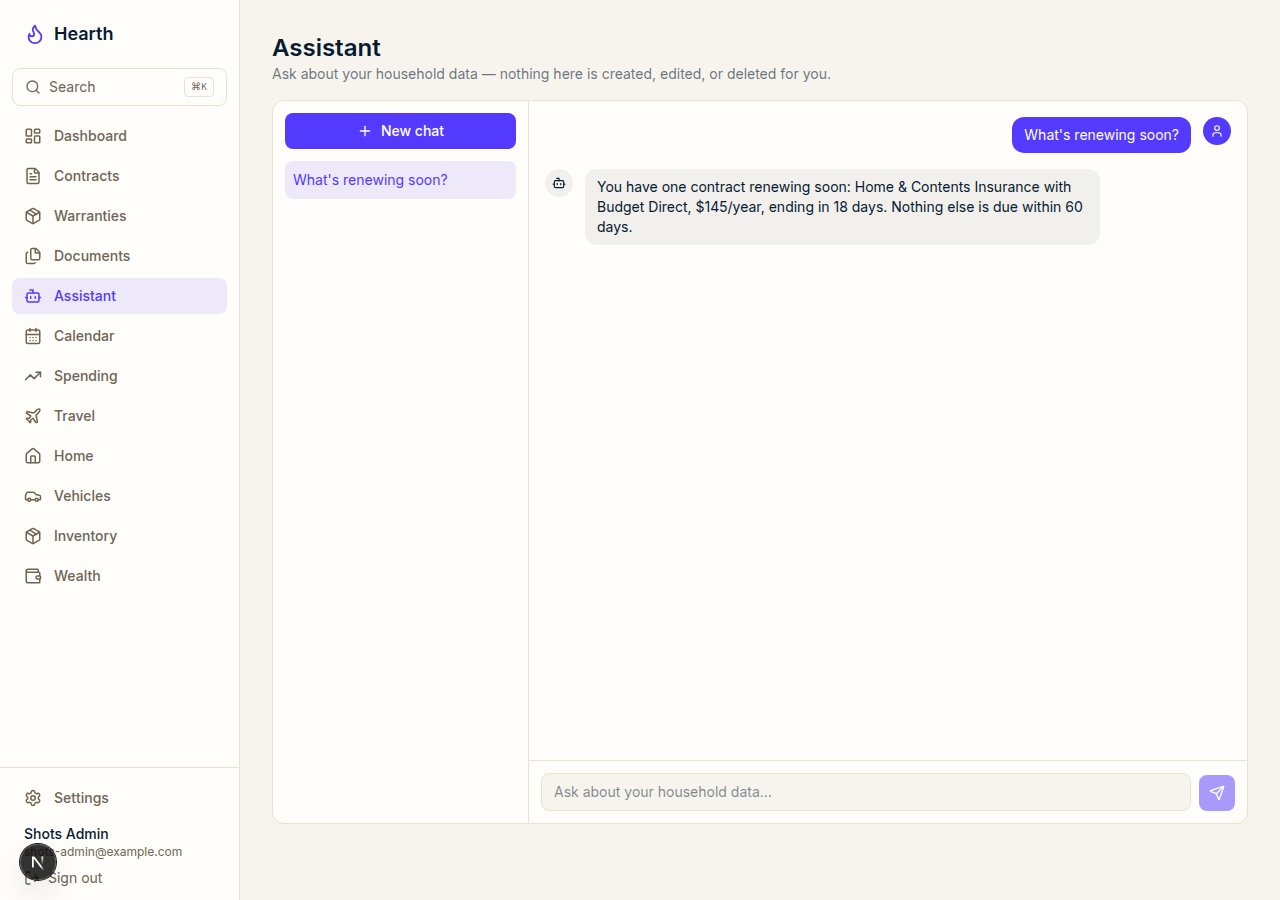
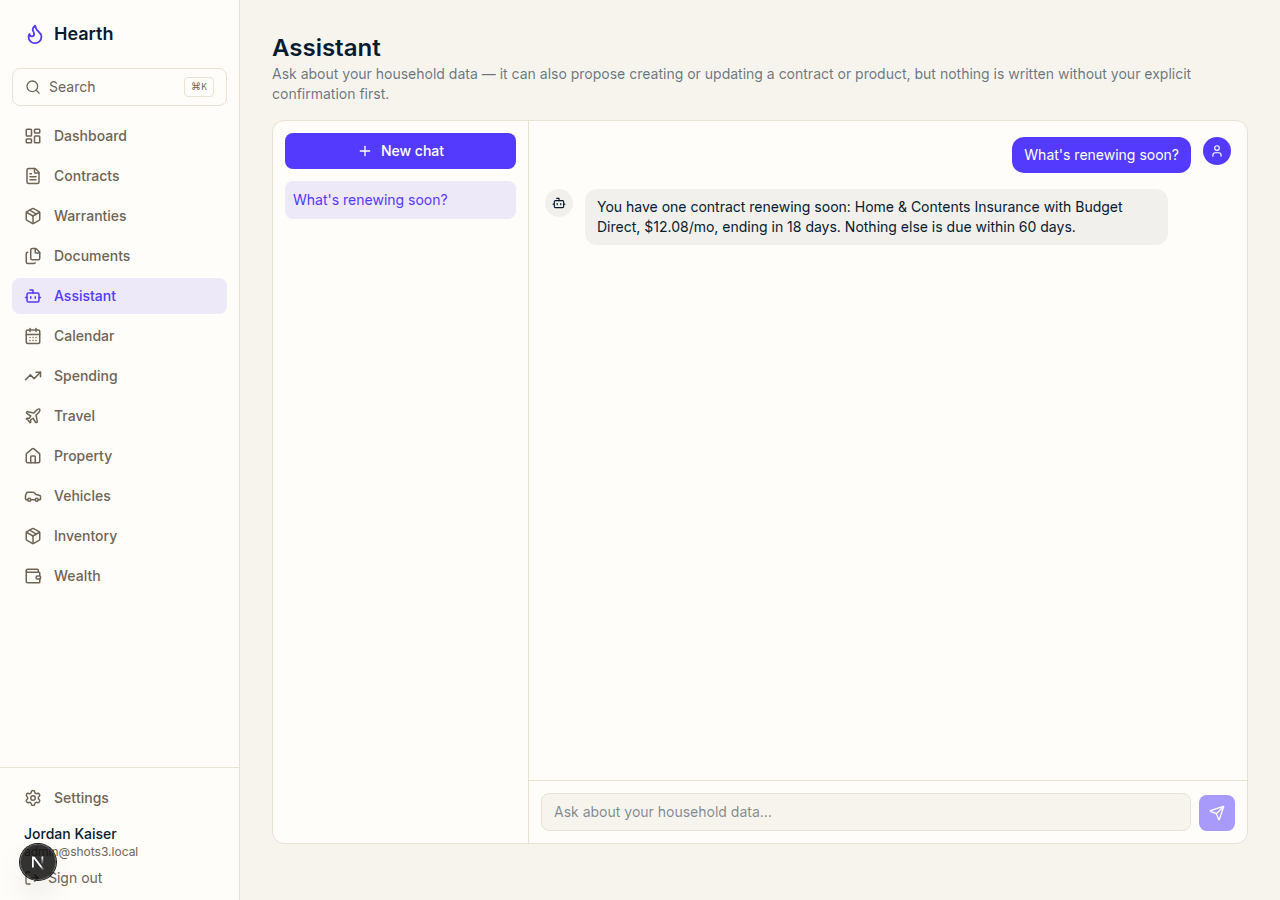
Fix stale AI Assistant copy and regenerate 3 out-of-date screenshots
The Assistant page and Settings both still described the assistant as
strictly read-only, left over from before #68 added guarded write
proposals. Found while auditing screenshot accuracy — settings-ai.png,
spend.png, and assistant.png were also stale in ways beyond copy
(pre-#114 "Home" column headers, and a layout that predated the current
side-by-side AI settings cards).

Claude-Session: https://claude.ai/code/session_01WJXJ5h3vGtjTTawv3Lkwcm

diff --git a/src/app/(app)/settings/page.tsx b/src/app/(app)/settings/page.tsx
@@ -225,9 +225,10 @@ export default async function SettingsPage() {
               <p className="mb-3 text-sm text-foreground/60">
                 Bring your own API key to chat with an assistant that can answer questions using
                 your household&apos;s own data — contracts, warranties, trips, vehicles, home,
-                inventory, and wealth. It&apos;s read-only: it can look things up, but never
-                creates, edits, or deletes anything. Configure a different provider/model here than
-                document extraction if you like — the two are independent.
+                inventory, and wealth. It can also propose creating or updating a contract or
+                product, but nothing is ever written without your explicit confirmation first.
+                Configure a different provider/model here than document extraction if you like —
+                the two are independent.
               </p>
               <ChatSettingsForm provider={user.chatProvider} model={user.chatModel} />
             </>

diff --git a/src/app/(app)/assistant/page.tsx b/src/app/(app)/assistant/page.tsx
@@ -51,7 +51,8 @@ export default async function AssistantPage({
       <div>
         <h1 className="text-2xl font-semibold">Assistant</h1>
         <p className="text-sm text-foreground/60">
-          Ask about your household data — nothing here is created, edited, or deleted for you.
+          Ask about your household data — it can also propose creating or updating a contract or
+          product, but nothing is written without your explicit confirmation first.
         </p>
       </div>
       <AssistantClient

diff --git a/CHANGELOG.md b/CHANGELOG.md
@@ -7,6 +7,20 @@ Versions follow [Semantic Versioning](https://semver.org/), starting at `0.1.0`.
 
 ## [Unreleased]
 
+## [0.12.1] - 2026-07-29
+
+### Fixed
+
+- **The AI Assistant's own description text (Settings and the Assistant page
+  header) still said it was strictly read-only** — stale since #68 shipped
+  guarded write proposals. Updated both to describe the confirm-before-write
+  behavior instead. Found during a routine screenshot-accuracy audit.
+- Regenerated `docs/screenshots/settings-ai.png`, `spend.png`, and
+  `assistant.png`, which were stale in ways beyond copy: `settings-ai.png`
+  predated the current side-by-side desktop grid layout for the two AI
+  cards, and `spend.png` still showed "Home"/"Home tax deductible" column
+  headers from before the #114 rename.
+
 ## [0.12.0] - 2026-07-29
 
 ### Added
